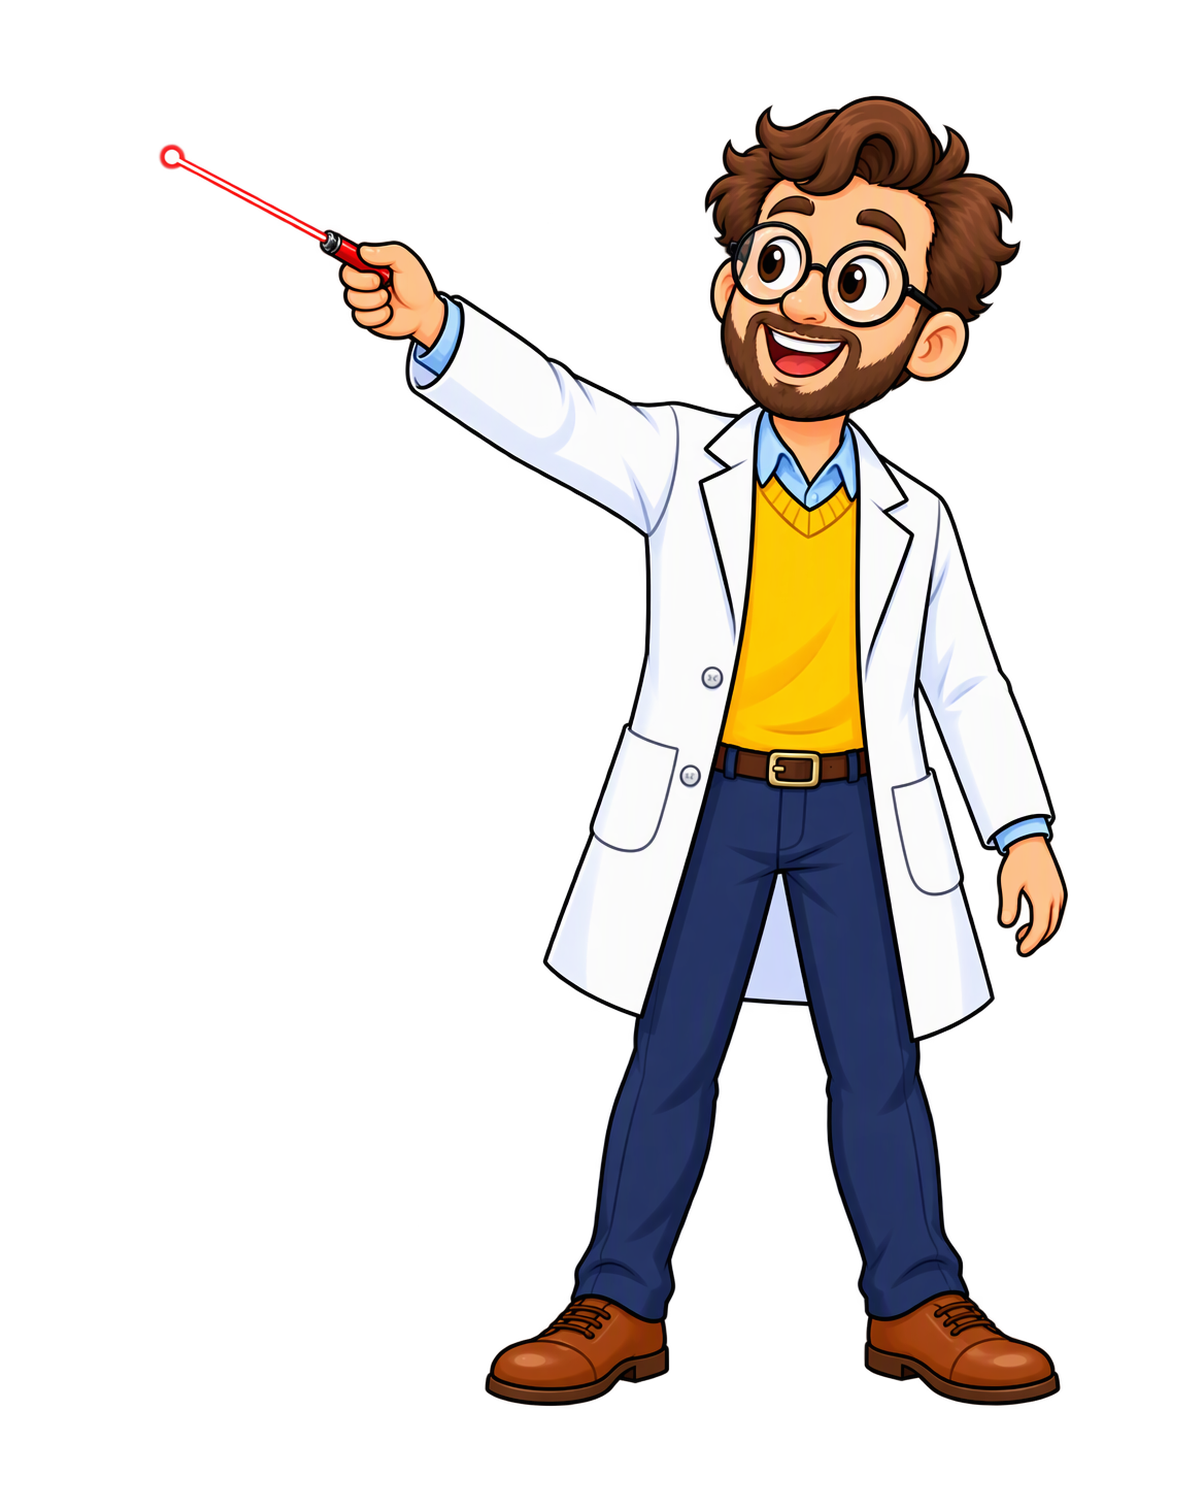
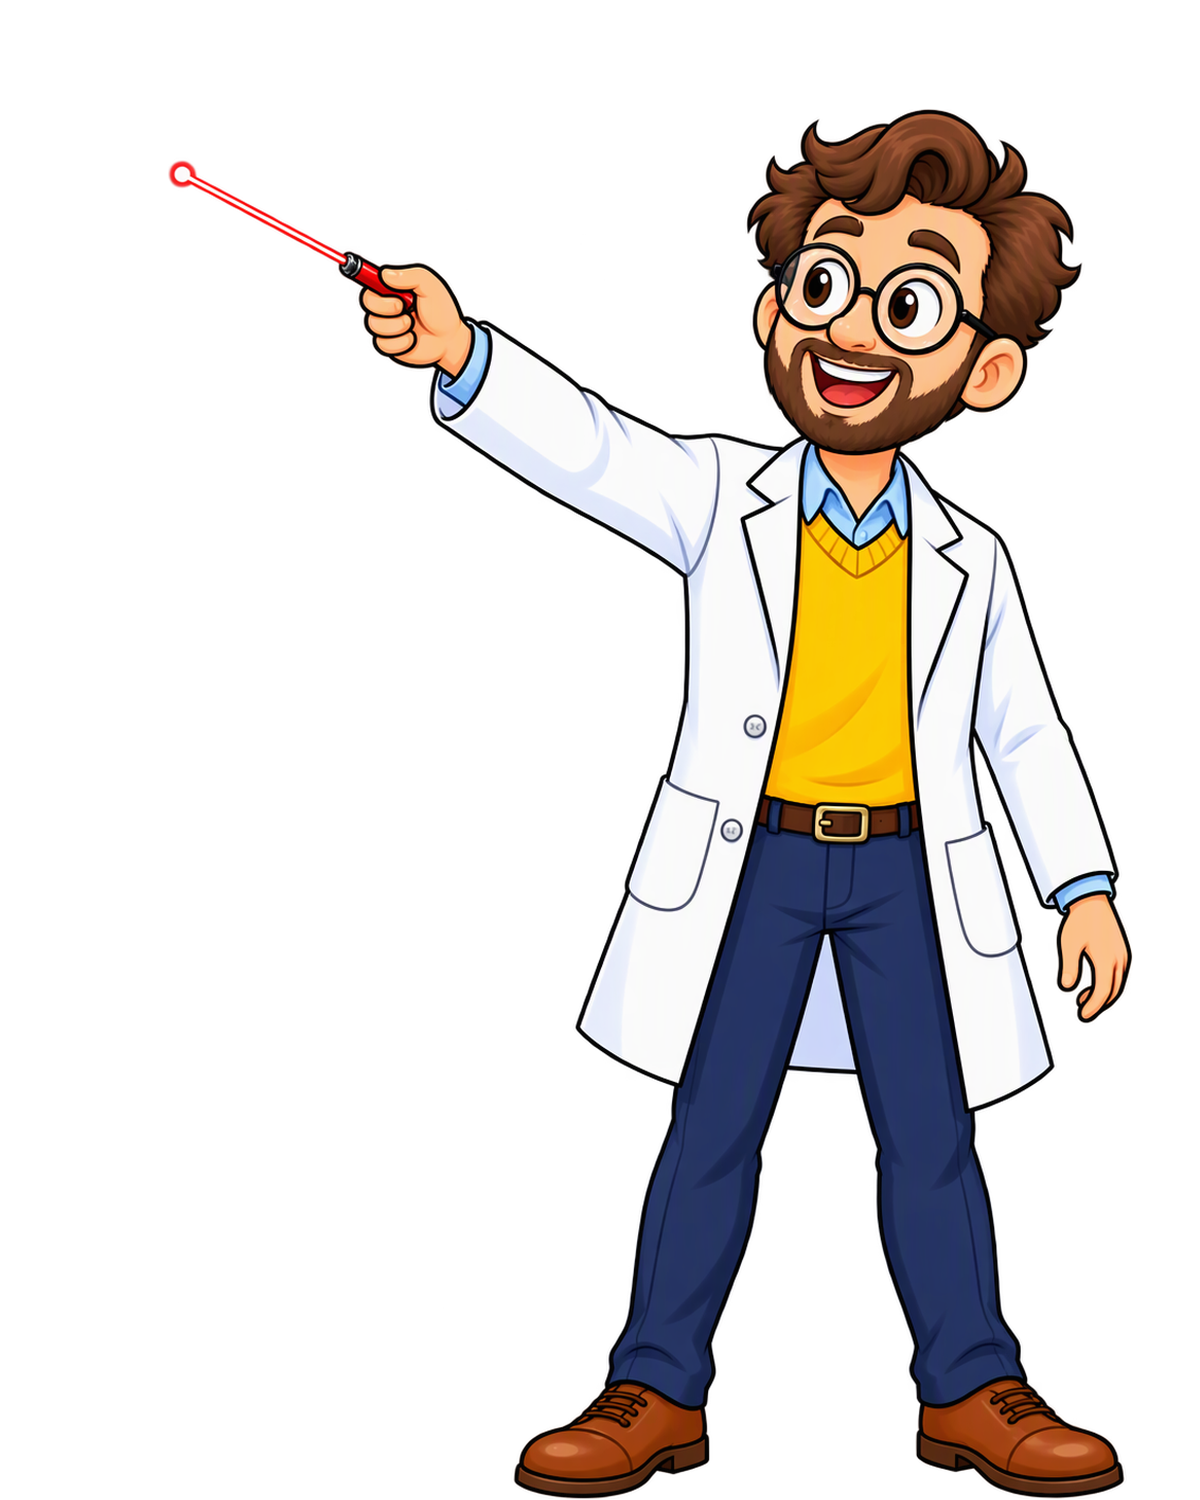
应用: 小人姿态图归一化——二批立绘（laser 变体/nod/shrug/write 等 26 张）按角色缩放表统一人物大小，脚底对齐基线（aqiang/zhongshan 1410、professor 1499），professor 的 laser_down/up 属小一号批次反向放大 1.06；新增 tools/normalize_poses.py 缩放表归一 + tools/pose_compare.py 红绿叠图比对工具

Changed region(s): [[0.2467, 0.0613, 0.9558, 1.0], [0.1233, 0.092, 0.2467, 0.1533], [0.4317, 0.6133, 0.4625, 0.644]]

diff --git a/tools/normalize_poses.py b/tools/normalize_poses.py
@@ -1,0 +1,87 @@
+# -*- coding: utf-8 -*-
+"""姿态图归一化：按人工核定的缩放表统一人物大小，脚底对齐角色基线。
+
+缩放以腿部质心为水平锚点，脚底（内容底边）对齐各角色 pose_explain 的基线。
+缩放表来自叠图比对（tools/pose_compare.py 的红绿叠图）+ 身体高度/脚长测量。
+用法: python tools/normalize_poses.py
+"""
+import os
+
+import numpy as np
+from PIL import Image
+
+ROOT = os.path.join(os.path.dirname(os.path.abspath(__file__)), "..",
+                    "interactive-lecture", "public", "poses")
+W, H = 1200, 1500
+
+# 角色基线 = pose_explain 内容底边
+BASELINE = {"aqiang": 1410, "professor": 1499, "zhongshan": 1410}
+
+# 缩放因子表（1.0 = 不动）；未列出的姿态保持原样
+SCALE = {
+    "aqiang": {
+        "pose_laser_circle": 0.94, "pose_laser_far": 0.98, "pose_laser_high": 0.90,
+        "pose_laser_lean": 0.89, "pose_laser_low": 0.86, "pose_nod": 0.94,
+        "pose_shrug": 0.92, "pose_write": 0.90,
+    },
+    "professor": {
+        "pose_laser_circle": 0.85, "pose_laser_far": 0.87, "pose_laser_high": 0.87,
+        "pose_laser_lean": 0.86, "pose_laser_low": 0.86, "pose_nod": 0.88,
+        "pose_shrug": 0.88, "pose_write": 0.87,
+        "pose_laser_down": 1.06, "pose_laser_up": 1.06,
+    },
+    "zhongshan": {
+        "pose_laser_circle": 0.94, "pose_laser_far": 0.88, "pose_laser_high": 0.94,
+        "pose_laser_lean": 0.95, "pose_laser_low": 0.94, "pose_nod": 0.94,
+        "pose_shrug": 0.92, "pose_write": 0.93,
+        "pose_laser_down": 1.015, "pose_laser_up": 1.02,
+    },
+}
+
+
+def bbox(a):
+    rows = a.any(axis=1)
+    cols = a.any(axis=0)
+    h, w = a.shape
+    return (int(np.argmax(cols)), int(np.argmax(rows)),
+            w - int(np.argmax(cols[::-1])), h - int(np.argmax(rows[::-1])))
+
+
+def leg_cx(a, y1):
+    band = a[max(0, y1 - 300):y1, :]
+    cols = np.where(band.any(axis=0))[0]
+    return float(cols.mean()) if len(cols) else W / 2
+
+
+def main():
+    for role, table in SCALE.items():
+        d = os.path.join(ROOT, role)
+        base_y = BASELINE[role]
+        for name, s in table.items():
+            p = os.path.join(d, name + ".png")
+            if not os.path.exists(p):
+                print("missing:", p)
+                continue
+            im = Image.open(p).convert("RGBA")
+            nw, nh = max(1, round(W * s)), max(1, round(H * s))
+            sa = np.array(im.resize((nw, nh), Image.LANCZOS))
+            x0, y0, x1, y1 = bbox(sa[:, :, 3] > 10)
+            content = sa[y0:y1, x0:x1]
+            cx = leg_cx(sa[:, :, 3] > 10, y1)   # 缩放后的腿质心
+            out = np.zeros((H, W, 4), dtype=np.uint8)
+            # 水平保持缩放后的原位置；竖直：脚底（内容底边）对齐基线
+            px = x0
+            py = int(round(base_y - (y1 - y0)))
+            cw = min(content.shape[1], W - px)
+            ch = min(content.shape[0], H - py)
+            if px < 0 or py < 0 or cw <= 0 or ch <= 0:
+                print("!! 越界", p)
+                continue
+            out[py:py + ch, px:px + cw] = content[:ch, :cw]
+            Image.fromarray(out).save(p)
+            print(f"{role}/{name}: s={s} feetY={y1}->{base_y} (原 {y1})")
+    print("done")
+
+
+if __name__ == "__main__":
+    main()

diff --git a/tools/pose_compare.py b/tools/pose_compare.py
@@ -1,0 +1,65 @@
+# -*- coding: utf-8 -*-
+"""生成姿态对比叠图：红=pose_explain 基准，绿=目标姿态（脚底+腿质心对齐）。
+用于人工判定每个姿态的缩放因子。输出 tools/pose_cmp/<role>_<pose>.png（2x2 网格另拼）。
+用法: python tools/pose_compare.py
+"""
+import os
+import numpy as np
+from PIL import Image
+
+ROOT = os.path.join(os.path.dirname(os.path.abspath(__file__)), "..",
+                    "interactive-lecture", "public", "poses")
+OUT = os.path.join(os.path.dirname(os.path.abspath(__file__)), "pose_cmp")
+os.makedirs(OUT, exist_ok=True)
+W, H = 1200, 1500
+
+
+def alpha(p):
+    return np.array(Image.open(p).convert("RGBA"))[:, :, 3] > 10
+
+
+def bbox(a):
+    rows = a.any(axis=1); cols = a.any(axis=0)
+    return int(np.argmax(rows)), H - int(np.argmax(rows[::-1])), \
+           int(np.argmax(cols)), W - int(np.argmax(cols[::-1]))
+
+
+def leg_cx(a, y1):
+    band = a[max(0, y1 - 300):y1, :]
+    cols = np.where(band.any(axis=0))[0]
+    return float(cols.mean()) if len(cols) else W / 2
+
+
+def shift(a, dy, dx):
+    """把内容平移 (dy, dx)（正=向下/向右）"""
+    out = np.zeros_like(a)
+    sy0, dy0 = max(0, -dy), max(0, dy)
+    sx0, dx0 = max(0, -dx), max(0, dx)
+    h = min(a.shape[0] - sy0, H - dy0); w = min(a.shape[1] - sx0, W - dx0)
+    if h > 0 and w > 0:
+        out[dy0:dy0 + h, dx0:dx0 + w] = a[sy0:sy0 + h, sx0:sx0 + w]
+    return out
+
+
+for role in ["aqiang", "professor", "zhongshan"]:
+    d = os.path.join(ROOT, role)
+    ref = alpha(os.path.join(d, "pose_explain.png"))
+    ry0, ry1, _, _ = bbox(ref)
+    rcx = leg_cx(ref, ry1)
+    for f in sorted(os.listdir(d)):
+        if not f.endswith(".png") or f == "pose_explain.png":
+            continue
+        a = alpha(os.path.join(d, f))
+        y0, y1, _, _ = bbox(a)
+        cx = leg_cx(a, y1)
+        t = shift(a, ry1 - y1, int(rcx - cx))
+        img = np.full((H, W, 3), 255, dtype=np.uint8)
+        img[ref] = [220, 0, 0]
+        img[t] = [0, 150, 0]
+        img[ref & t] = [60, 60, 60]
+        # 网格线：基准头顶行
+        img[ry0 - 2:ry0 + 2, :] = [0, 0, 255]
+        img[ry1 - 2:ry1 + 2, :] = [0, 0, 255]
+        Image.fromarray(img).resize((W // 2, H // 2)).save(
+            os.path.join(OUT, f"{role}_{f}"))
+print("done ->", OUT)
